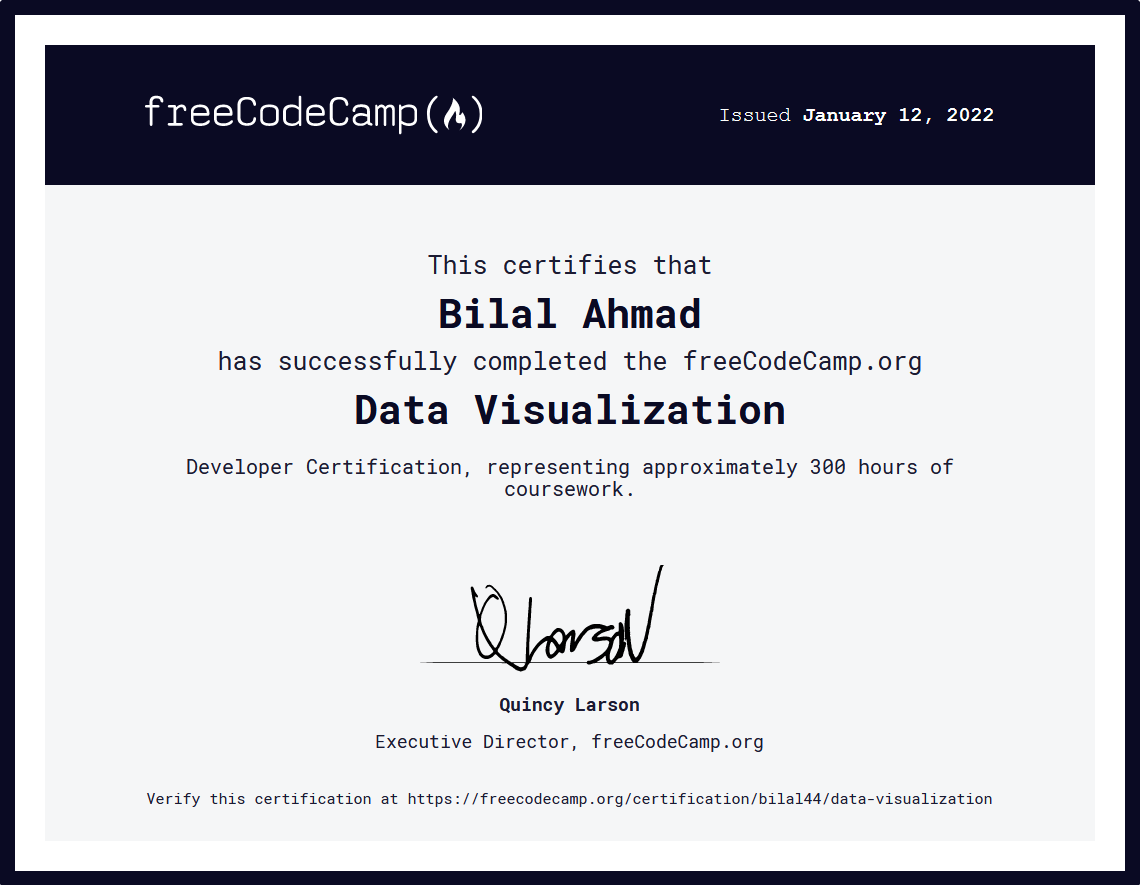
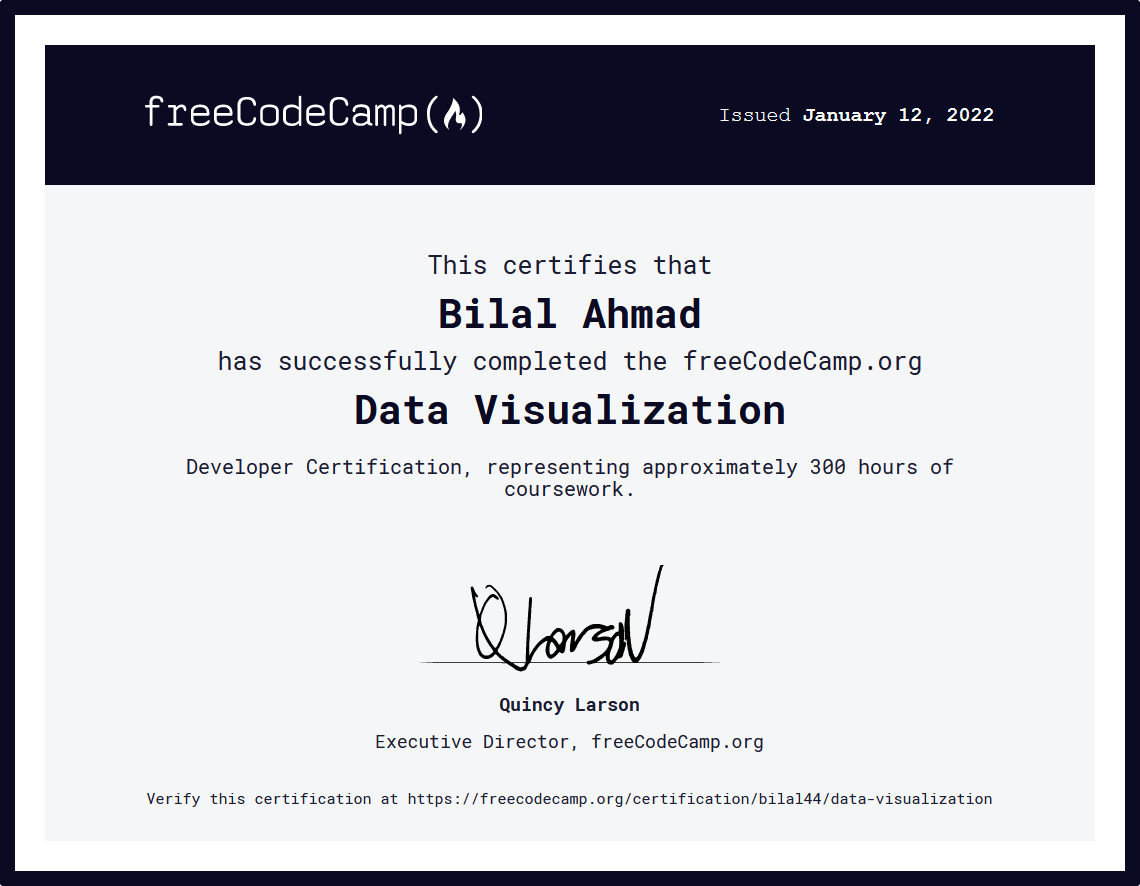
Add Legacy Information Security and Quality Assurance certificate, Fix old certificates' sizes

diff --git a/README.md b/README.md
@@ -51,5 +51,7 @@ Projects developed for [freeCodeCamp](https://www.freecodecamp.org) online cours
 
 <a href="https://www.freecodecamp.org/certification/bilal44/quality-assurance-v7" target="_blank" title="Quality Assurance Certificate"><p align="center"><img src="./Certificate blob/FCC-QA-Certificate.PNG" text="Quality Assurance Certificate" width="75%" /></p></a>
     
-            6. Stock Price Checker :heavy_check_mark:
-            7. Anonymous Message Board
+           6. Stock Price Checker :heavy_check_mark:
+           7. Anonymous Message Board :heavy_check_mark:
+
+<a href="https://www.freecodecamp.org/certification/bilal44/information-security-and-quality-assurance" target="_blank" title="Legacy Information Security and Quality Assurance"><p align="center"><img src="./Certificate blob/FCC-LQ-Certificate.PNG" text="Legacy Information Security and Quality Assurance" width="75%" /></p></a>
